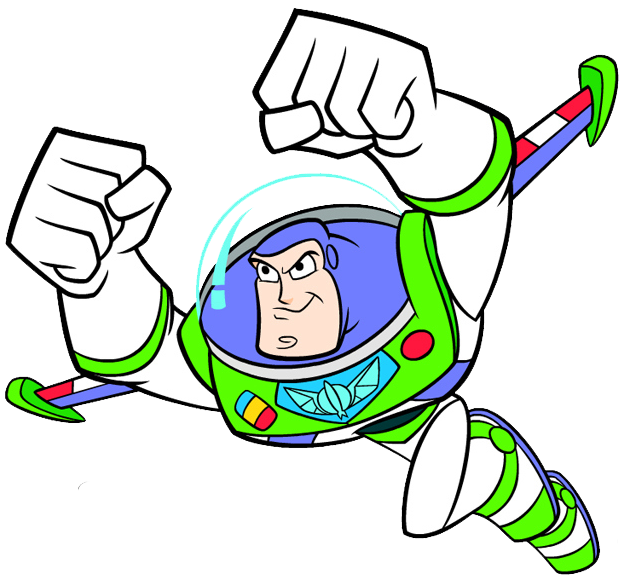
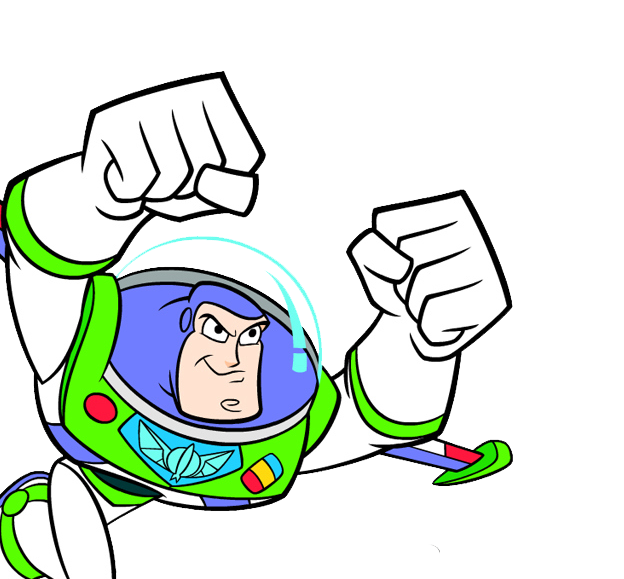
added images, reworked animations

diff --git a/stylesheet.css b/stylesheet.css
@@ -217,7 +217,7 @@ h1 {
   @keyframes move-image {
     0% {
       bottom: -40%;
-      left: 75%;
+      right:  60%;
       opacity: 1;
       transform: scale(1) traslate(-50%, 50%);
       animation-timing-function: ease-in;
@@ -230,14 +230,13 @@ h1 {
         animation-timing-function: ease-out;
     }
     80%{
-        opacity: 0.7;
+        opacity: 30%;
     }
 
     100% {
-      bottom: 140%;
-      left: -25%;
-      opacity: 0;
-      transform: scale(0.1);
-      animation-timing-function: ease-in;
+      bottom: 100%;
+      right: -40%;
+      opacity: 0%;
+      transform: scale(0.01);
     }
   }

diff --git a/functions.js b/functions.js
@@ -148,7 +148,7 @@ function displayAnswer(result) {
 function infinityBeyond(){
             // Show an image moving from the center-left bottom to the center-right top
             const imageElement = document.createElement("img");
-            imageElement.src = "IMAGES/BUZZ.png";
+            imageElement.src = "IMAGES/BuzzText.png";
             imageElement.classList.add("moving-image");
             document.body.appendChild(imageElement);
     
